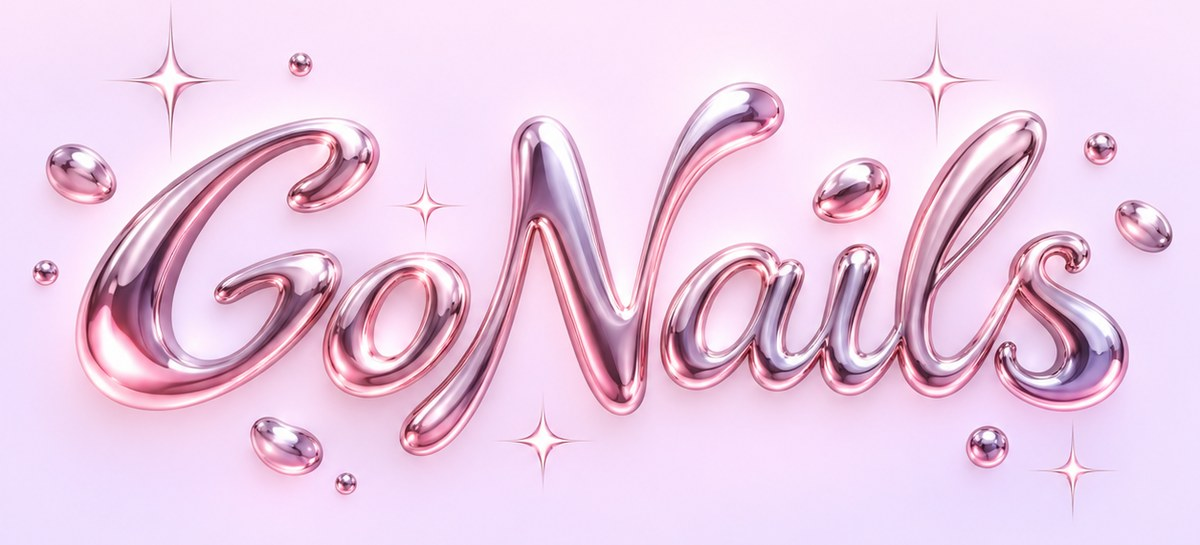
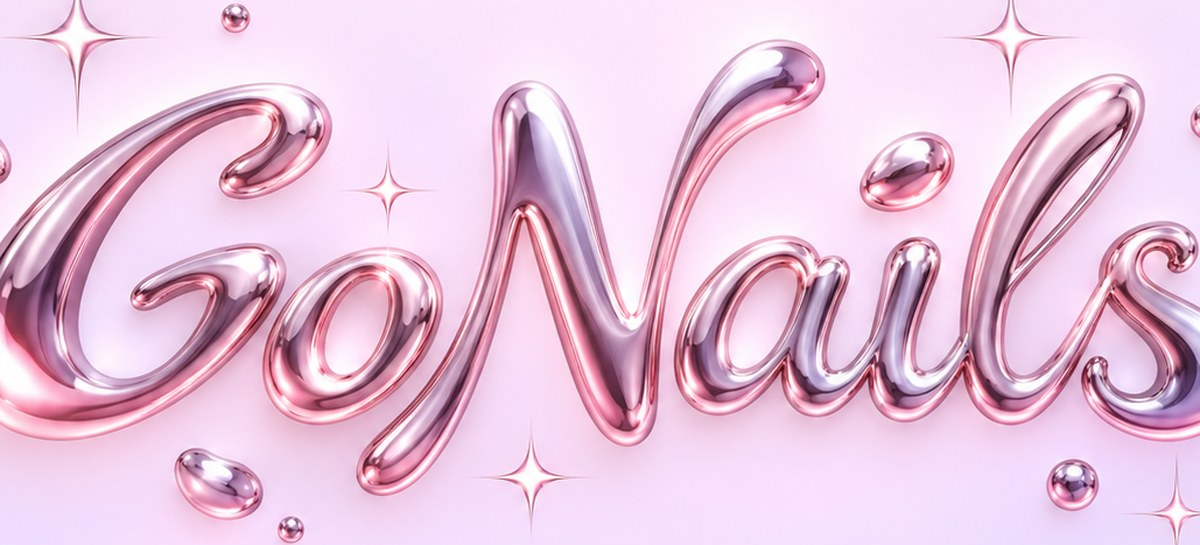
header fix: поля у надписи, без обрезки

diff --git a/index.html b/index.html
@@ -52,8 +52,8 @@
 
         /* Header */
         .header { position: relative; background: var(--header-bg); }
-        .header-logo { width: 100%; height: 210px; overflow: hidden; position: relative; }
-        .header-logo img { width: 100%; height: 210px; object-fit: cover; }
+        .header-logo { width: 100%; overflow: hidden; position: relative; }
+        .header-logo img { width: 100%; height: auto; display: block; }
         .header-logo::after { content: '✦'; position: absolute; top: 14px; right: 18px; color: rgba(255,255,255,0.9); font-size: 1.3rem; text-shadow: 0 2px 8px rgba(58,16,56,0.35); }
         .header-content { position: relative; padding: 18px 20px 20px; text-align: center; background: var(--header-bg); }
         .header-title { font-family: var(--font-heading); font-style: italic; font-size: 1.7rem; font-weight: 600; color: var(--header-title-text); margin-bottom: 6px; text-shadow: 0 2px 10px rgba(58,16,56,0.3); }
